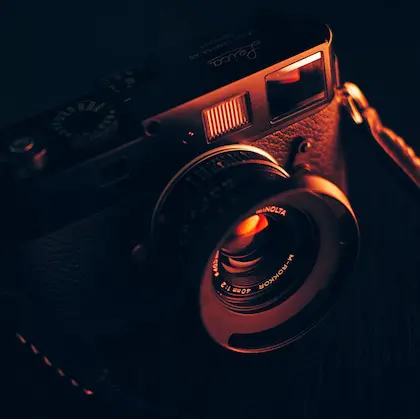
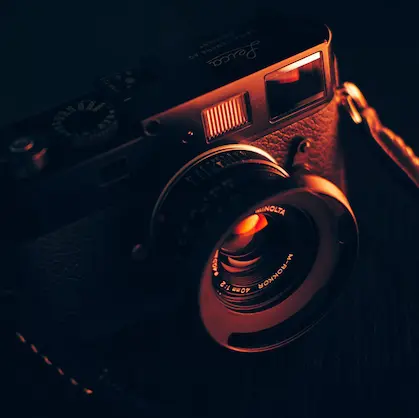
Rezise img, modif css

diff --git a/assets/style.min.css b/assets/style.min.css
@@ -1,1 +1,1 @@
-body{max-width:1920px;margin:auto}*{font-family:Inter;font-style:normal}.top-header{background-color:#fff;position:sticky;top:0;z-index:1000;display:flex;justify-content:space-between;padding-inline:100px;padding-block:30px;align-items:center}.top-header .name{font-size:26px}.nav ul{display:flex;list-style-type:none;font-size:14px;margin-bottom:0}.nav li{padding-inline:10px}.nav a{text-decoration:none;color:#000}.social-link img{width:20px;height:20px}#about{display:flex;background-color:#f6d2b8;padding-inline:100px;padding-block:50px;position:relative}.picture.left::before{content:" ";background-color:#e5975f;width:374px;height:329px;position:absolute;bottom:0;left:0;z-index:-1}.picture{flex:1;margin:0 20px;z-index:0}.picture img{width:100%;height:100%;min-width:395px;max-width:395px;min-height:395px;max-height:395px}#about-me{flex:2}.about-me__title{margin-top:1em;margin-bottom:20px;font-size:30px}.about-me__introduction{font-family:Spectral;font-weight:800;font-style:italic;width:60%;font-size:16px}#about-me p{width:80%;font-size:16px}.title{text-align:center;padding-block:2em}.gallery .nav{justify-content:center}.nav-pills .nav-link.active,.nav-pills .show>.nav-link{color:#000;background-color:#beb45a;border-radius:0}.nav-pills .nav-link{color:#000;cursor:pointer}.item-column{position:relative;margin-bottom:0!important;padding:0}.item-column::after{content:"";display:block;padding-bottom:100%}.gallery-item{position:absolute;width:100%;height:100%;object-fit:cover;padding:.5em}.mg-next,.mg-prev{width:30px;height:30px;border-radius:00%;justify-content:center;align-items:center;display:flex;font-size:24px}.quote{font-family:Spectral;font-style:italic;width:70%;margin:auto;padding-block:3em}.quote__text{font-family:Spectral;font-style:italic;font-size:40px;font-weight:300}.quote__author{font-family:Spectral;font-weight:800;font-size:22px}#services{margin:auto;background-color:#a8d5d8;position:relative}#services .container::before{content:" ";background-color:#1c6474;position:absolute;width:100%;height:30%;bottom:0;left:0;z-index:0}#services .container{justify-content:space-between;display:flex;padding:2em 0}.service{background-color:#fff;max-width:390px;width:30%;height:337px;padding:1em;display:flex;flex-direction:column;justify-content:space-between;z-index:1}#contact{margin:auto;background-color:#d8d3a8;position:relative;padding-inline:100px;padding-block:100px;transition:padding .5s ease}#contact .container{display:grid;grid-template-columns:50% 50%;height:500px}.picture.right::before{content:" ";background-color:#beb45a;width:374px;height:329px;position:absolute;bottom:0;right:0;z-index:-1}.form-container{flex:2}form{display:flex;flex-direction:column;width:70%;align-items:flex-start}form input{width:100%;background-color:transparent;border:solid 1px;height:2.5em;margin-bottom:20px}form textarea{width:100%;background-color:transparent;border:solid 1px;height:5em;line-height:2.5em;font-size:1.2em;margin-bottom:20px}input[type=submit]{background-color:#beb45a;padding:.5em 1em}@media all and (max-width:1180px){.picture{flex:2}.about-me__title{margin-top:0;margin-bottom:15px}#about-me h2,#about-me p{width:100%}}@media all and (max-width:1000px){#about{display:flex;flex-direction:column;justify-content:center;align-items:center}.picture{max-width:100%;max-height:100%}.picture.left::before{width:100%;height:30%;position:absolute;bottom:auto;top:0;left:0;z-index:-1}.about-me__title{text-align:center;margin-top:1em}#services .container{flex-direction:column}.service{width:100%;max-width:100%;height:auto;margin:2em 0}.service__description{margin-bottom:1em}#services .container::before{width:30%;height:100%;bottom:0;right:0;left:auto;z-index:0}#contact{height:1000px;padding-inline:50px;padding-block:50px}#contact .container{display:flex;flex-direction:column}#contact .picture.right{margin-top:1em}.picture.right::before{width:100%;height:30%;position:absolute;bottom:0;right:0;z-index:-1}}@media all and (max-width:730px){.top-header{flex-direction:column;padding-inline:0}.top-header .nav,.top-header .nav ul{width:100%;padding:0}.top-header .nav li{flex:1;padding-block:1em;text-align:center}.picture.left::before,.picture.right::before{height:150px}#services .container{align-items:center}.service{max-width:90%}#about{padding-inline:2em;padding-block:2em}form{width:100%}.picture img{width:100%;min-width:10%;min-height:10%}.quote__text{font-size:30px;font-weight:300}#contact{padding-inline:25px;padding-block:25px}}
+body{max-width:1920px;margin:auto}*{font-family:Inter;font-style:normal}.top-header{background-color:#fff;position:sticky;top:0;z-index:1000;display:flex;justify-content:space-between;padding-inline:100px;padding-block:30px;align-items:center}.top-header .name{font-size:26px}.nav ul{display:flex;list-style-type:none;font-size:14px;margin-bottom:0}.nav li{padding-inline:10px}.nav a{text-decoration:none;color:#000}.social-link img{width:20px;height:20px}#about{display:flex;background-color:#f6d2b8;padding-inline:100px;padding-block:100px;position:relative}.picture.left::before{content:" ";background-color:#e5975f;width:374px;height:329px;position:absolute;bottom:0;left:0;z-index:-1}.picture{flex:1;margin:0 20px;z-index:0}.picture img{width:100%;height:auto}#about-me{flex:2}.about-me__title{margin-top:1em;margin-bottom:60px;font-size:30px}.about-me__introduction{font-family:Spectral;font-weight:800;font-style:italic;width:60%}#about-me p{width:80%;font-size:14px}.title{text-align:center;padding-block:2em}.gallery .nav{justify-content:center}.nav-pills .nav-link.active,.nav-pills .show>.nav-link{color:#262626;background-color:#beb45a;border-radius:0}.nav-pills .nav-link{color:#000;cursor:pointer}.item-column{position:relative;margin-bottom:0!important;padding:0}.item-column::after{content:"";display:block;padding-bottom:100%}.gallery-item{position:absolute;width:100%;height:100%;object-fit:cover;padding:.5em}.mg-next,.mg-prev{width:30px;height:30px;border-radius:00%;justify-content:center;align-items:center;display:flex;font-size:24px}.quote{font-family:Spectral;font-style:italic;width:70%;margin:auto;padding-block:3em}.quote__text{font-family:Spectral;font-style:italic;font-weight:300}.quote__author{font-family:Spectral;font-weight:800;font-size:22px}#services{margin:auto;background-color:#a8d5d8;position:relative}#services .container::before{content:" ";background-color:#1c6474;position:absolute;width:100%;height:30%;bottom:0;left:0;z-index:0}#services .container{justify-content:space-between;display:flex;padding:2em 0}.service{background-color:#fff;max-width:390px;width:30%;height:337px;padding:1em;display:flex;flex-direction:column;justify-content:space-between;z-index:1}#contact{margin:auto;background-color:#d8d3a8;position:relative;padding-inline:100px;padding-block:100px}#contact .container{display:flex}.picture.right::before{content:" ";background-color:#beb45a;width:374px;height:329px;position:absolute;bottom:0;right:0;z-index:-1}.form-container{flex:2}form{display:flex;flex-direction:column;width:70%;align-items:flex-start}form input{width:100%;background-color:transparent;border:solid 1px;height:2.5em;margin-bottom:20px}form textarea{width:100%;background-color:transparent;border:solid 1px;height:5em;line-height:2.5em;font-size:1.2em;margin-bottom:20px}input[type=submit]{background-color:#beb45a;padding:.5em 1em}@media all and (max-width:1180px){.picture{flex:2}#about,#contact .container{align-items:center}.about-me__title{margin-top:0;margin-bottom:1em}#about-me h6,#about-me p{width:100%}}@media all and (max-width:1000px){#about{flex-direction:column}.picture{width:50%;height:auto}.picture.left::before{width:100%;height:30%;position:absolute;bottom:auto;top:0;left:0;z-index:-1}.about-me__title{text-align:center;margin-top:1em}#services .container{flex-direction:column}.service{width:100%;max-width:100%;height:auto;margin:2em 0}.service__description{margin-bottom:1em}#services .container::before{width:30%;height:100%;bottom:0;right:0;left:auto;z-index:0}#contact .container{flex-direction:column}#contact .picture.right{margin-top:1em}.picture.right::before{width:100%;height:30%;position:absolute;bottom:0;right:0;z-index:-1}}@media all and (max-width:650px){.top-header{flex-direction:column;padding-inline:0}.top-header .nav,.top-header .nav ul{align-items:center;width:100%;padding:0}.top-header .nav li{flex:1;padding-block:1em;text-align:center}.picture.left::before,.picture.right::before{height:150px}#services .container{align-items:center}.service{max-width:90%}#about,#contact{padding-inline:2em;padding-block:2em}form{width:100%}.picture{width:80%;height:auto}}

diff --git a/assets/style.css b/assets/style.css
@@ -47,7 +47,7 @@ body {
   display: flex;
   background-color: #f6d2b8;
   padding-inline: 100px;
-  padding-block: 50px;
+  padding-block: 100px;
   position: relative;
 }
 
@@ -70,18 +70,14 @@ body {
 
 .picture img {
   width: 100%;
-  height: 100%;
-  min-width: 395px;
-  max-width: 395px;
-  min-height: 395px;
-  max-height: 395px;
+  height: auto;
 }
 #about-me {
   flex: 2;
 }
 .about-me__title {
   margin-top: 1em;
-  margin-bottom: 20px;
+  margin-bottom: 60px;
   font-size: 30px;
 }
 .about-me__introduction {
@@ -89,12 +85,10 @@ body {
   font-weight: 800;
   font-style: italic;
   width: 60%;
-  font-size: 16px;
 }
-
 #about-me p {
   width: 80%;
-  font-size: 16px;
+  font-size: 14px;
 }
 
 #gallery {
@@ -109,7 +103,7 @@ body {
 }
 .nav-pills .nav-link.active,
 .nav-pills .show > .nav-link {
-  color: #000000;
+  color: #262626;
   background-color: #beb45a;
   border-radius: 0;
 }
@@ -155,7 +149,6 @@ body {
 .quote__text {
   font-family: Spectral;
   font-style: italic;
-  font-size: 40px;
   font-weight: 300;
 }
 .quote__author {
@@ -204,13 +197,10 @@ body {
   position: relative;
   padding-inline: 100px;
   padding-block: 100px;
-  transition: padding 0.5s ease;
 }
 
 #contact .container {
-  display: grid;
-  grid-template-columns: 50% 50%;
-  height: 500px;
+  display: flex;
 }
 .picture.right::before {
   content: " ";
@@ -258,11 +248,15 @@ input[type="submit"] {
   .picture {
     flex: 2;
   }
+  #about,
+  #contact .container {
+    align-items: center;
+  }
   .about-me__title {
     margin-top: 0;
-    margin-bottom: 15px;
+    margin-bottom: 1em;
   }
-  #about-me h2,
+  #about-me h6,
   #about-me p {
     width: 100%;
   }
@@ -270,17 +264,12 @@ input[type="submit"] {
 
 @media all and (max-width: 1000px) {
   #about {
-    display: flex;
     flex-direction: column;
-    justify-content: center; /* Centre horizontalement */
-    align-items: center; /* Centre verticalement */
   }
-
   .picture {
-    max-width: 100%; /* L'image ne dépassera jamais la largeur de son parent */
-    max-height: 100%; /* L'image ne dépassera jamais la hauteur de son parent */
+    width: 50%;
+    height: auto;
   }
-
   .picture.left::before {
     width: 100%;
     height: 30%;
@@ -315,14 +304,8 @@ input[type="submit"] {
     left: auto;
     z-index: 0;
   }
-  #contact {
-    height: 1000px;
-    padding-inline: 50px; /* Nouveau padding horizontal pour les écrans plus petits */
-    padding-block: 50px; /* Nouveau padding vertical pour les écrans plus petits */
-  }
 
   #contact .container {
-    display: flex;
     flex-direction: column;
   }
   #contact .picture.right {
@@ -338,13 +321,14 @@ input[type="submit"] {
   }
 }
 
-@media all and (max-width: 730px) {
+@media all and (max-width: 650px) {
   .top-header {
     flex-direction: column;
     padding-inline: 0;
   }
   .top-header .nav,
   .top-header .nav ul {
+    align-items: center;
     width: 100%;
     padding: 0 0 0 0;
   }
@@ -363,24 +347,16 @@ input[type="submit"] {
   .service {
     max-width: 90%;
   }
-  #about {
+  #about,
+  #contact {
     padding-inline: 2em;
     padding-block: 2em;
   }
   form {
     width: 100%;
   }
-  .picture img {
-    width: 100%;
-    min-width: 10%;
-    min-height: 10%;
-  }
-  .quote__text {
-    font-size: 30px;
-    font-weight: 300;
-  }
-  #contact {
-    padding-inline: 25px; /* Nouveau padding horizontal pour les écrans plus petits */
-    padding-block: 25px; /* Nouveau padding vertical pour les écrans plus petits */
+  .picture {
+    width: 80%;
+    height: auto;
   }
 }

diff --git a/index.html b/index.html
@@ -180,7 +180,7 @@
         />
       </div>
       <div id="about-me">
-        <h2 class="about-me__title">>A propos de moi</h2>
+        <h2 class="about-me__title">À propos de moi</h2>
         <p class="about-me__introduction">
           Devenir photographe était pour moi une évidence. Comme si j’y étais
           prédestiné. Saisir un moment, une émotion, une situation, un endroit,
